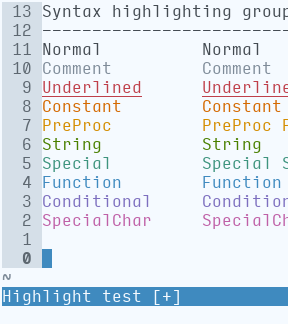
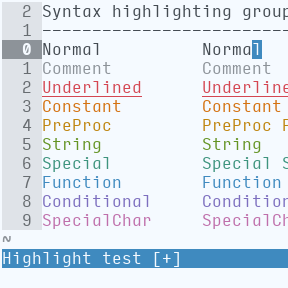
overhaul

Changed region(s): [[0.0, 0.0, 1.0, 0.9688]]

diff --git a/transmogrify.md b/transmogrify.md
@@ -12,25 +12,27 @@
 %s/181818/191c1f/ |
 %s/282828/282c30/ |
 %s/383838/444b52/ |
-%s/585858/5d6770/ |
-%s/b8b8b8/7f8c99/ |
-%s/d8d8d8/a8b4bf/ |
-%s/e8e8e8/d5dfe8/ |
+%s/585858/676c70/ |
+%s/b8b8b8/8d9399/ |
+%s/d8d8d8/b0b8bf/ |
+%s/e8e8e8/dfe3e8/ |
 %s/f8f8f8/f5faff/ |
 
-%s/ab4642/bf3f4a/ |
-%s/dc9656/d46900/ |
-%s/f7ca88/d48d00/ |
-%s/a1b56c/4a8000/ |
+%s/ab4642/d44652/ |
+%s/dc9656/d47211/ |
+%s/f7ca88/bf850f/ |
+%s/a1b56c/659425/ |
 %s/86c1b9/3e947e/ |
 %s/7cafc2/3f8abf/ |
 %s/ba8baf/7d6fbf/ |
-%s/a16946/bf60a7/ |
+%s/a16946/bf6fab/ |
 
 %s/Character",    s:gui08, "", s:cterm08/Character",    s:gui0D, "", s:cterm0D/ |
 %s/Cursor",        s:gui00, s:gui05, s:cterm00, s:cterm05/Cursor",        s:gui00, s:gui0D, s:cterm00, s:cterm0D/ |
+%s/CursorLineNr",  s:gui04, s:gui01, s:cterm04, s:cterm01/CursorLineNr",  s:gui00, s:gui03, s:cterm00, s:cterm03/ |
 %s/Identifier",   s:gui08, "", s:cterm08, "", "none/Identifier",   s:gui0D, "", s:cterm0D, "", "bold/ |
 %s/LineNr",        s:gui03, s:gui01, s:cterm03/LineNr",        s:gui04, s:gui01, s:cterm05/ |
+%s/MatchParen",    "", s:gui03, "", s:cterm03/MatchParen",    s:gui00, s:gui03, s:cterm00, s:cterm03/ |
 %s/Search",        s:gui03, s:gui0A, s:cterm03, s:cterm0A,  "", "")/Search",        s:gui00, s:gui0A, s:cterm00, s:cterm0A,  "", "")/ |
 %s/statusline",    s:gui04, s:gui02, s:cterm04, s:cterm02/statusline",    s:gui00, s:gui0D, s:cterm00, s:cterm0D/ |
 %s/StatusLineNC",  s:gui03, s:gui01, s:cterm03, s:cterm01/StatusLineNC",  s:gui05, s:gui01, s:cterm05, s:cterm01/ |
